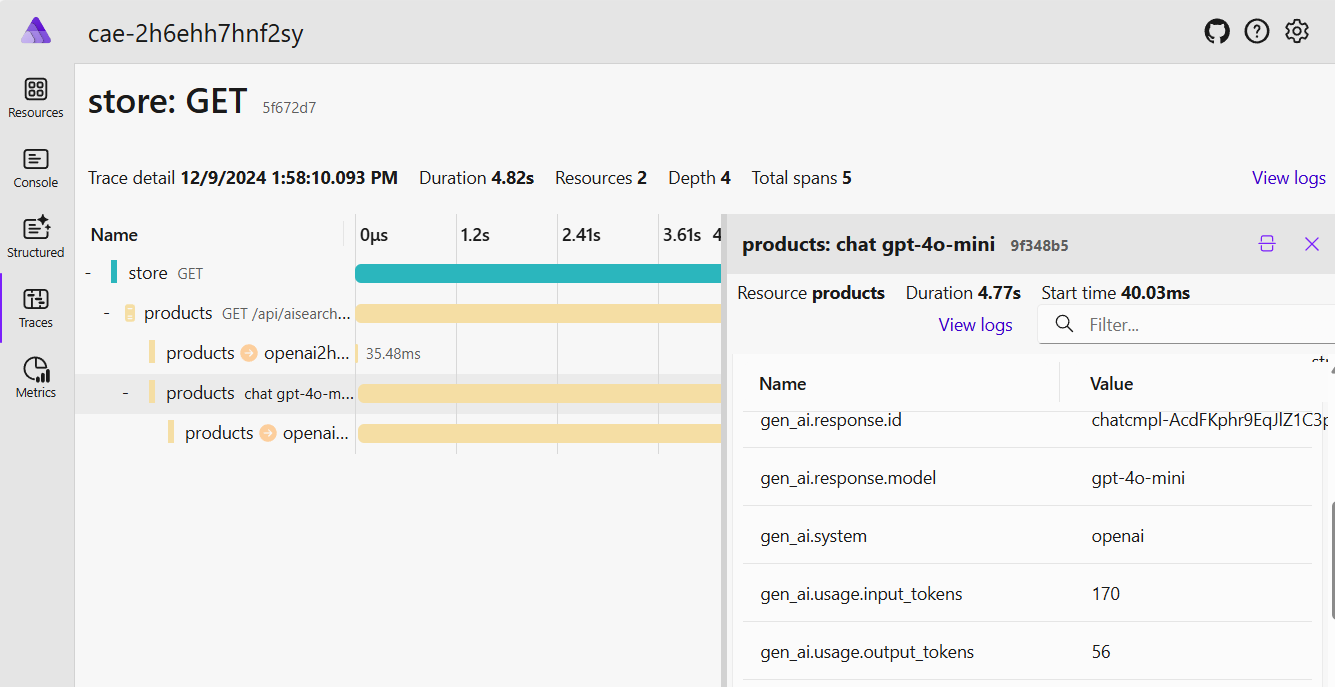
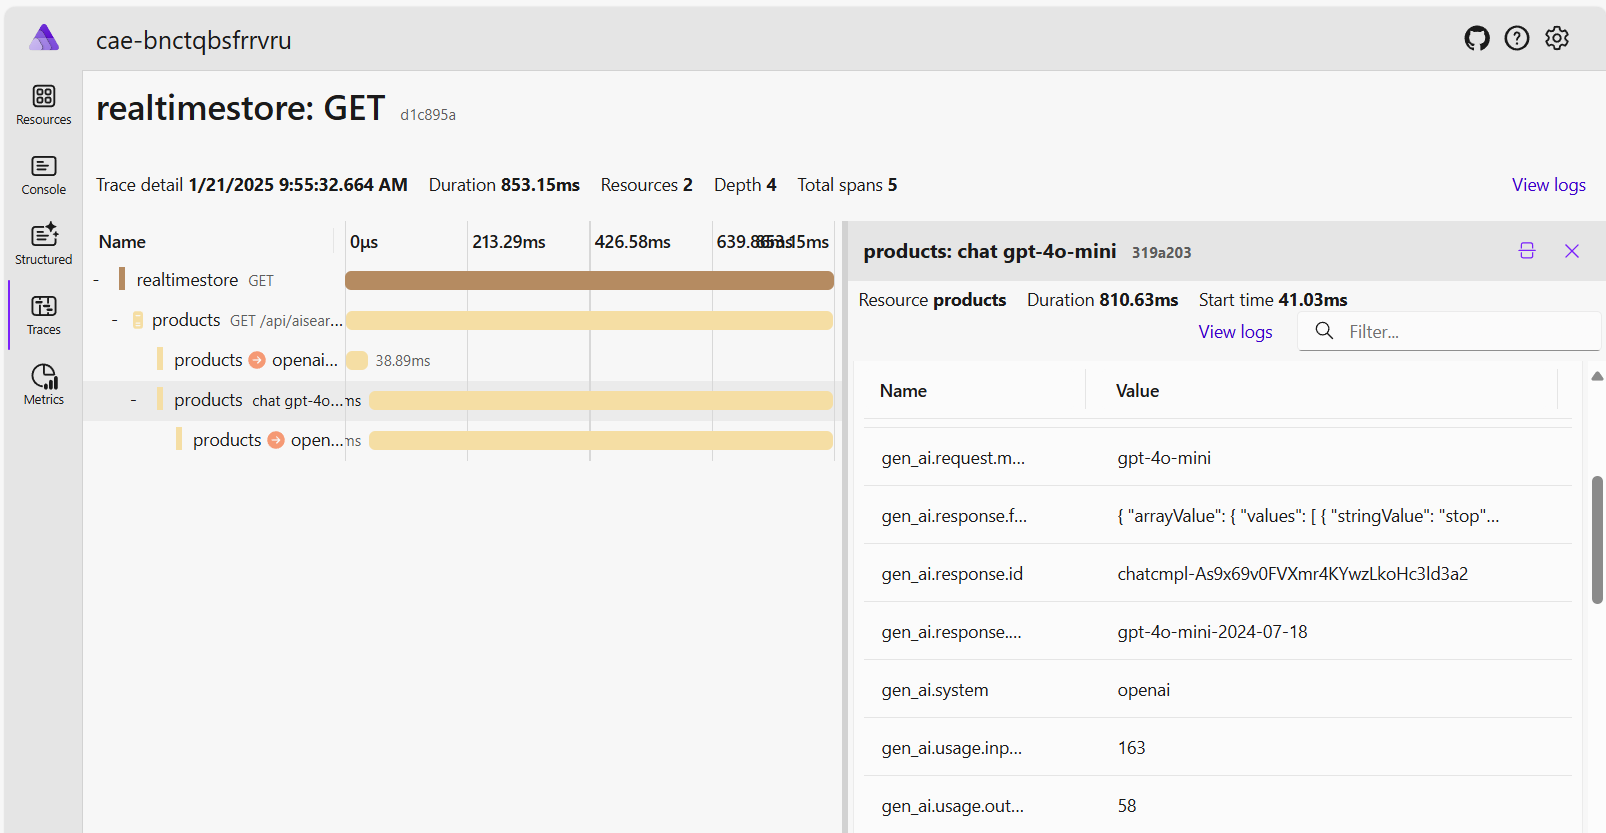
Update README and add new images for Azure resources and Aspire Dashboard

diff --git a/README.md b/README.md
@@ -4,7 +4,7 @@
 
 ## Description
 
-**eShopLite - Realtime Audio Chat** is a reference .NET application implementing an eCommerce site with advanced search features and real-time audio capabilities. The solution combines keyword search, semantic search, and a new chat interface powered by the **GPT-4o Realtime Audio API**.
+**eShopLite - Realtime Audio Chat** is a reference .NET application implementing an eCommerce site with advanced search features and real-time audio capabilities. The solution combines keyword search, semantic search, and a new chat interface using audio powered by the **GPT-4o Realtime Audio API**.
 
 - [Features](#features)
 - [Architecture diagram](#architecture-diagram)
@@ -37,7 +37,7 @@ Perform **Semantic Search**:
 
 Engage with **Real-time Audio Chat** for product inquiries:
 
-*Note: A new image demonstrating the RealtimeStore chat feature is required.*
+![Realtime Audio Demo](./images/07eShopLite-RealtimeAudio.gif)
 
 The Aspire Dashboard to check the running services:
 
@@ -80,20 +80,20 @@ From a Terminal window, open the folder with the clone of this repo and run the 
 1. When `azd` has finished deploying, you'll see the list of resources created in Azure and a set of URIs in the command output.
 
 1. Visit the **store** URI, and you should see the **eShop Lite app**! 🎉
+ 
+1. Visit the **realtimestore** URI, and you should see the **eShop Lite Audio Chat App**! 🎉
 
 1. This is an example of the command output:
 
 ![Deploy Azure Complete](./images/20AzdUpConsoleComplete.png)
 
-1. **Coming Soon!** You can check this video with a 5 minutes overview of the deploy process from codespaces: [Deploy Your **eShopLite - Semantic Search** to Azure in Minutes!]().
+1. **Coming Soon!** You can check this video with a 5 minutes overview of the deploy process from codespaces: [Deploy Your **eShopLite - Realtime Audio** to Azure in Minutes!]().
 
 ***Note:** The deploy files are located in the `./src/eShopAppHost/infra/` folder. They are generated by the `Aspire AppHost` project.*
 
 ### GitHub CodeSpaces
 
 - Create a new  Codespace using the `Code` button at the top of the repository.
-
-![create Codespace](./images/25CreateCodeSpaces.png)
 
 - The Codespace creation process can take a couple of minutes.
 
@@ -138,6 +138,8 @@ Follow these steps to run the project, locally or in CodeSpaces:
   ````
 
 Check the [Video Resources](#resources) for a step-by-step on how to run this project.
+
+> **Note:** Working with .NET Aspire in GitHub Codespaces is not fully supported yet. As a developer you need to perform a lot of manual steps to access the .NET Aspire portal, like changing ports to public, copy the access token and more. The .NET Aspire version 9.1 will improve the whole developer experience. We will update these steps when the version 9.1 is released.
 
 ## .NET Aspire Azure Resources creation
 
@@ -252,7 +254,7 @@ You may want to consider additional security measures, such as:
 - [GPT-4o Realtime API Quickstart](https://learn.microsoft.com/en-us/azure/ai-services/openai/realtime-audio-quickstart)
 
 - [eShopLite Semantic Search Repository](https://aka.ms/netaieshoplitesemanticsearch)
- 
+
 - [eShopLite Semantic Search Repository using Azure AI Search](https://aka.ms/netaieshoplitesemanticsearchazureaisearch)
 
 ## Video Recordings
